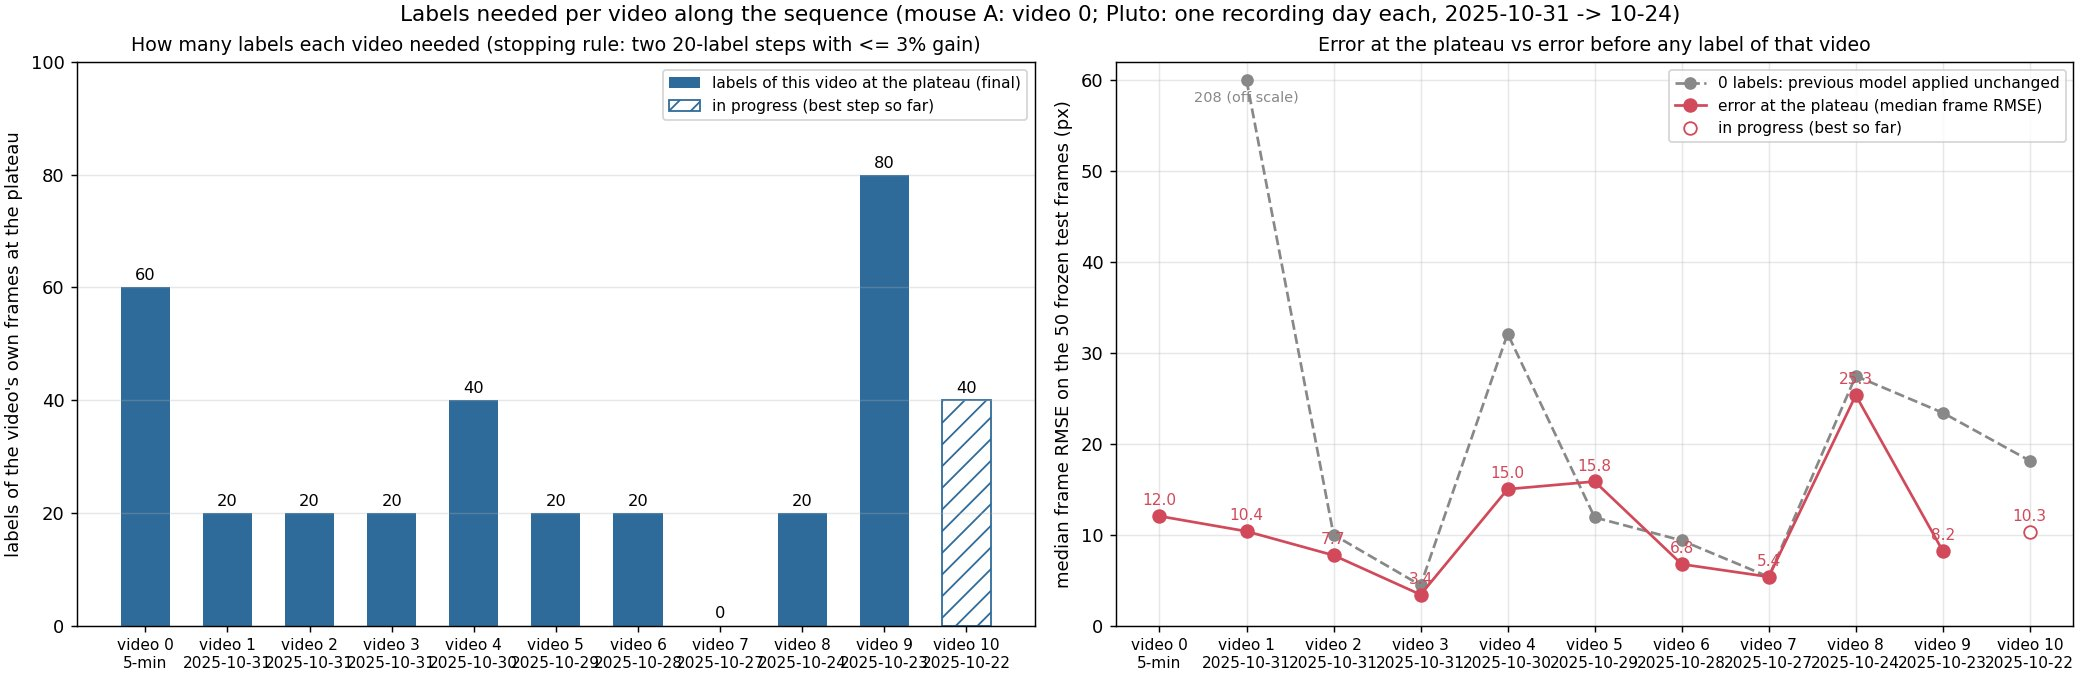
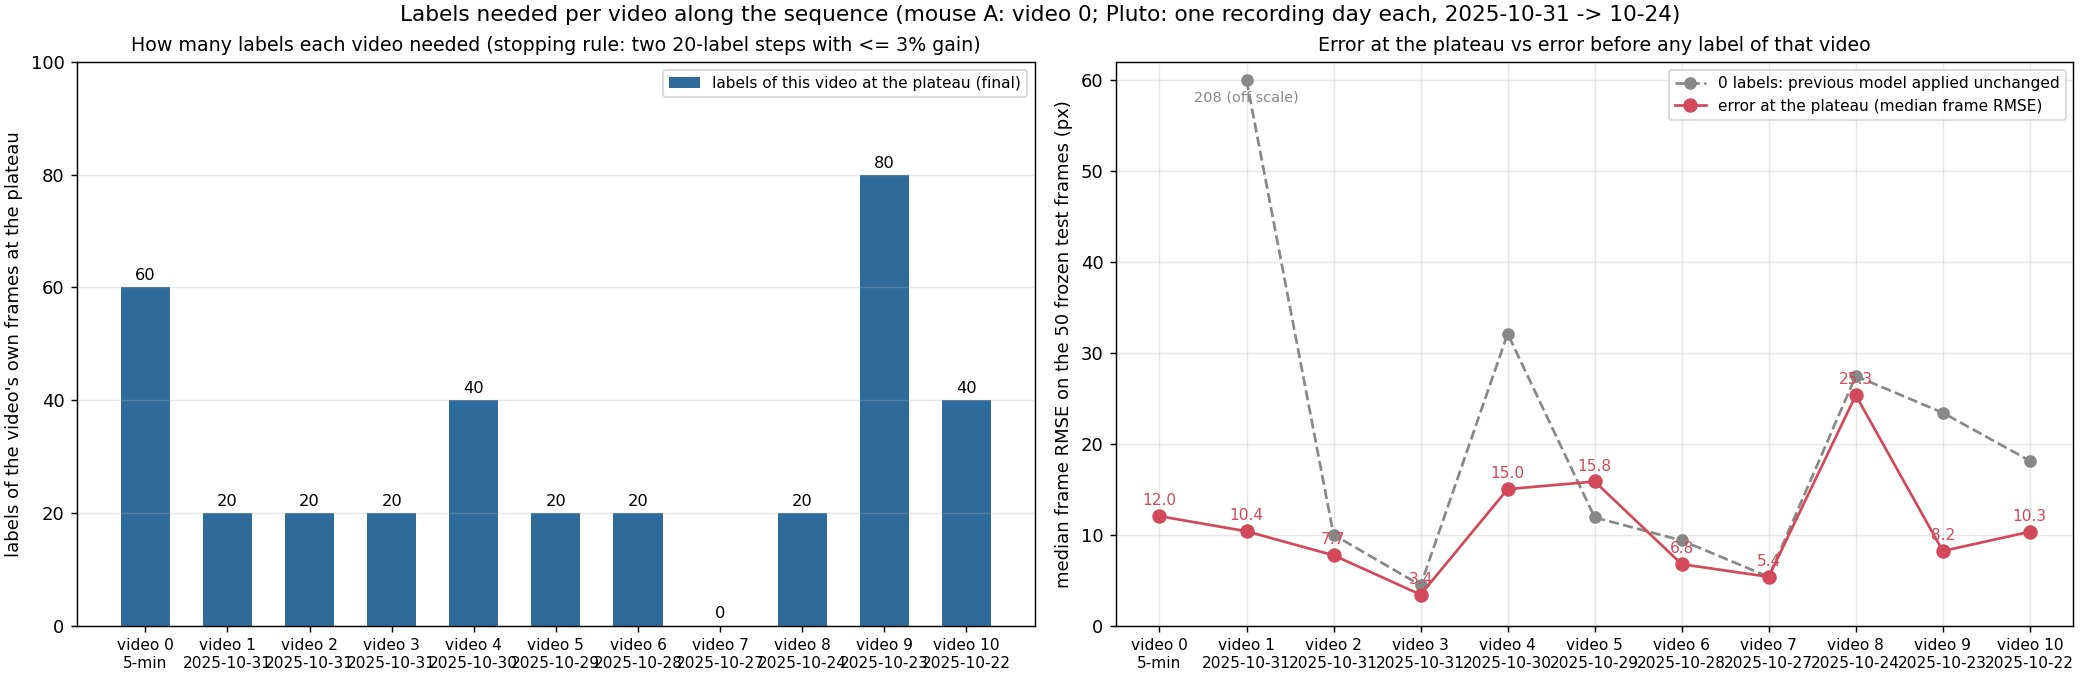
Video 10 finished: plateau at 40 labels, 10.32 px (rule fired at 80; user decision 2026-10-03); 40 labels carried into video 11 (Terra, new mouse), whose test / val / batch01 frames are extracted
Claude-Session: https://claude.ai/code/session_017MK5SWBFFQAu8ejFk1z7fh

diff --git a/report/index.html b/report/index.html
@@ -63,7 +63,7 @@ code{font-family:var(--mono);font-size:.9em}
 
 <header>
   <h1><span lang="zh">小鼠眼睛关键点追踪：做了什么，结果是什么</span><span lang="en">Mouse eye keypoint tracking: what was done and what came out</span></h1>
-  <p class="muted small">Zhiheng Li (University of Minnesota), Kaiwen Sheng (Stanford) · <span lang="zh">页面生成时间</span><span lang="en">page built</span> 2026-10-03 09:37 · <a href="https://github.com/ZhihengLi0/mouse-behavior-tracking">GitHub: ZhihengLi0/mouse-behavior-tracking</a></p>
+  <p class="muted small">Zhiheng Li (University of Minnesota), Kaiwen Sheng (Stanford) · <span lang="zh">页面生成时间</span><span lang="en">page built</span> 2026-10-03 09:49 · <a href="https://github.com/ZhihengLi0/mouse-behavior-tracking">GitHub: ZhihengLi0/mouse-behavior-tracking</a></p>
 
   <div class="text" lang="zh">
     <p><b>任务。</b>用 DeepLabCut 在小鼠眼睛视频的每一帧上找 8 个点：瞳孔上、下、左、右，上眼睑、下眼睑，鼻侧眼角、颞侧眼角。由这 8 个点得到瞳孔大小、眼睛睁开程度和眨眼，之后与脑记录对齐。</p>
@@ -75,10 +75,10 @@ code{font-family:var(--mono);font-size:.9em}
       <li><b>用哪个模型？</b>用 ResNet-50。</li>
       <li><b>同一个视频标多少帧够？</b>约 80 帧就饱和，加到 300 帧误差不变；用哪种算法挑帧也没有差别。</li>
       <li><b>换一只新老鼠怎么办？</b>旧模型完全不能用（误差约 200 px）；标 20 帧就回到约 10 px。</li>
-      <li><b>同一只老鼠之后的每个视频要标多少帧？</b>标 0–40 帧就到平台（已完成的 8 个里有 1 个需要 80 帧）。</li>
+      <li><b>同一只老鼠之后的每个视频要标多少帧？</b>标 0–40 帧就到平台（已完成的 9 个里有 1 个需要 80 帧）。</li>
       <li><b>加入新视频会不会让旧视频变差？</b>不会。</li>
     </ol>
-    <p><b>进度。</b>已完成 10 个视频（视频 0–9）；视频 10 进行中，按 0 / 20 / 40 / … 帧的误差为 18.13 / 11.83 / 10.32 / 10.49 / 10.76 px。</p>
+    <p><b>进度。</b>已完成 11 个视频（视频 0–10）。</p>
   </div>
   <div class="text" lang="en">
     <p><b>Task.</b> DeepLabCut finds 8 points on every frame of a mouse-eye video: pupil top, bottom, left, right; upper and lower eyelid; nasal and temporal eye corner. From these we get pupil size, eye opening and blinks, to be aligned with brain recordings later.</p>
@@ -90,10 +90,10 @@ code{font-family:var(--mono);font-size:.9em}
       <li><b>Which model?</b> ResNet-50.</li>
       <li><b>How many labels are enough within one video?</b> About 80 saturate it; 300 give the same error, and the algorithm used to pick the frames makes no difference.</li>
       <li><b>What about a new mouse?</b> The old model is useless (error about 200 px); 20 labels bring it back to about 10 px.</li>
-      <li><b>How many labels does each later video of the same mouse need?</b> 0–40 reach the plateau (1 of the 8 finished ones needed 80).</li>
+      <li><b>How many labels does each later video of the same mouse need?</b> 0–40 reach the plateau (1 of the 9 finished ones needed 80).</li>
       <li><b>Do new videos make old ones worse?</b> No.</li>
     </ol>
-    <p><b>Status.</b> 10 videos finished (videos 0–9); video 10 in progress, error at 0 / 20 / 40 / … labels: 18.13 / 11.83 / 10.32 / 10.49 / 10.76 px.</p>
+    <p><b>Status.</b> 11 videos finished (videos 0–10).</p>
   </div>
 
   <div class="text" lang="zh">
@@ -319,7 +319,7 @@ code{font-family:var(--mono);font-size:.9em}
 <tr><td>7</td><td>Pluto<br>2025-10-27</td><td>400</td><td>5.36 / 5.86 / 5.84</td><td><span lang="zh"><b>0 帧，5.36 px</b></span><span lang="en"><b>0 labels, 5.36 px</b></span></td><td>40</td><td>0</td></tr>
 <tr><td>8</td><td>Pluto<br>2025-10-24</td><td>400</td><td>27.46 / 25.34 / 30.03 / 33.77</td><td><span lang="zh"><b>20 帧，25.34 px</b></span><span lang="en"><b>20 labels, 25.34 px</b></span></td><td>60</td><td>20</td></tr>
 <tr><td>9</td><td>Pluto<br>2025-10-23</td><td>420</td><td>23.41 / 10.39 / 8.55 / 8.67 / 8.20 / 9.39 / 8.63</td><td><span lang="zh"><b>80 帧，8.20 px</b></span><span lang="en"><b>80 labels, 8.20 px</b></span></td><td>120</td><td>80</td></tr>
-<tr><td>10</td><td>Pluto<br>2025-10-22</td><td>500</td><td>18.13 / 11.83 / 10.32 / 10.49 / 10.76</td><td><span lang="zh">进行中（目前最好：40 帧，10.32 px）</span><span lang="en">in progress (best so far: 40 labels, 10.32 px)</span></td><td>80</td><td>–</td></tr>
+<tr><td>10</td><td>Pluto<br>2025-10-22</td><td>500</td><td>18.13 / 11.83 / 10.32 / 10.49 / 10.76</td><td><span lang="zh"><b>40 帧，10.32 px</b></span><span lang="en"><b>40 labels, 10.32 px</b></span></td><td>80</td><td>40</td></tr>
       </tbody>
     </table>
   </div>

diff --git a/report/template.html b/report/template.html
@@ -75,7 +75,7 @@ code{font-family:var(--mono);font-size:.9em}
       <li><b>用哪个模型？</b>用 ResNet-50。</li>
       <li><b>同一个视频标多少帧够？</b>约 80 帧就饱和，加到 300 帧误差不变；用哪种算法挑帧也没有差别。</li>
       <li><b>换一只新老鼠怎么办？</b>旧模型完全不能用（误差约 200 px）；标 20 帧就回到约 10 px。</li>
-      <li><b>同一只老鼠之后的每个视频要标多少帧？</b>标 0–40 帧就到平台（已完成的 8 个里有 1 个需要 80 帧）。</li>
+      <li><b>同一只老鼠之后的每个视频要标多少帧？</b>标 0–40 帧就到平台（已完成的 9 个里有 1 个需要 80 帧）。</li>
       <li><b>加入新视频会不会让旧视频变差？</b>不会。</li>
     </ol>
     <p><b>进度。</b>{{STATUS_ZH}}</p>
@@ -90,7 +90,7 @@ code{font-family:var(--mono);font-size:.9em}
       <li><b>Which model?</b> ResNet-50.</li>
       <li><b>How many labels are enough within one video?</b> About 80 saturate it; 300 give the same error, and the algorithm used to pick the frames makes no difference.</li>
       <li><b>What about a new mouse?</b> The old model is useless (error about 200 px); 20 labels bring it back to about 10 px.</li>
-      <li><b>How many labels does each later video of the same mouse need?</b> 0–40 reach the plateau (1 of the 8 finished ones needed 80).</li>
+      <li><b>How many labels does each later video of the same mouse need?</b> 0–40 reach the plateau (1 of the 9 finished ones needed 80).</li>
       <li><b>Do new videos make old ones worse?</b> No.</li>
     </ol>
     <p><b>Status.</b> {{STATUS_EN}}</p>

diff --git a/README.md b/README.md
@@ -8,7 +8,7 @@ how many human labels are needed, and how few frames must a person correct, befo
 Zhiheng Li (University of Minnesota), with Kaiwen Sheng (Stanford). Raw videos, frames, labels, model weights and
 per-frame predictions stay local; git carries code, documentation and audited aggregate results.
 
-## Status (last updated 2026-10-03 00:40 CDT)
+## Status (last updated 2026-10-03 10:05 CDT)
 
 | what | state |
 |---|---|
@@ -23,8 +23,9 @@ per-frame predictions stay local; git carries code, documentation and audited ag
 | Finished | **video 8** (Pluto, 2025-10-24, v2 line): test set relabeled under v2 and frozen; 0 labels (video-6 model 711) = 27.46 px, 20 labels = 25.34 px, 40 labels = 30.03 px (p90 ~50, 12-14% of frames > 50 px - a hard day, 3 days after video 7); 60 labels = 33.77 px: finished at **20 labels, 25.34 px** (rule fired at 60; 12-16% of frames > 50 px at every step - this day is hard). |
 | Finished | **video 9** (Pluto, 2025-10-23, v2 line): test50 / val20 / batch01 labeled from model-711 pre-labels; 0 labels (model 711) = 23.41 px, 20 labels = 10.39 px, 40 labels = 8.55 px, 60 labels = 8.67 px (p90 14.8; no gain on the median), 80 labels = 8.20 px (p90 14.8; 4.1% better than 8.55), 100 labels = 9.39 px (p90 15.5), 120 labels = 8.63 px (p90 15.8): the plateau rule fired at 120 (two steps without a gain on 8.20), finished at **80 labels, 8.20 px** (user decision 2026-10-01). Cross-video curves now also show the 5 / 10-label subset models (open markers) |
 | Blink / area analysis | per-video time series in `<video>/results/blink_area_analysis/`; across videos (`v2_new_pupil_top_video_scaling/results/blink_area_consistency.png`): 4-point area better on 7 of 8 test sets; lowest pupil confidence < ~0.2 separates all 16 human closed-eye frames (the production 0.6 cut flags ~half of open frames); area correlates with eye opening in every video |
-| In progress | **video 10** (Pluto, 2025-10-22, the last Pluto video of the sequence): test50 / val20 / batch01 pre-labeled with the video-9 80-label model (1014) and corrected by the labeler (test50: 234 of 400 points moved), test set frozen; 0 labels (model 1014) = 18.13 px (p90 32.0, 8% of frames > 50 px), 20 labels = 11.83 px (p90 27.7, 2% > 50 px), 40 labels = 10.32 px (p90 26.1, 92% of keypoints with confidence >= 0.6), 60 labels = 10.49 px (p90 27.2, 8% > 50 px; no gain over 10.32), 80 labels = 10.76 px (p90 188.7, 12% > 50 px; no gain): the plateau rule fired at 80 (two steps without a gain on 10.32); plateau point 40 labels, 10.32 px; awaiting user decision |
-| Next | Terra (mouse C), units 11-18, one recording day each, newest first |
+| Finished | **video 10** (Pluto, 2025-10-22, the last Pluto video of the sequence): test50 / val20 / batch01 pre-labeled with the video-9 80-label model (1014) and corrected by the labeler (test50: 234 of 400 points moved), test set frozen; 0 labels (model 1014) = 18.13 px (p90 32.0, 8% of frames > 50 px), 20 labels = 11.83 px (p90 27.7, 2% > 50 px), 40 labels = 10.32 px (p90 26.1, 92% of keypoints with confidence >= 0.6), 60 labels = 10.49 px (p90 27.2, 8% > 50 px; no gain over 10.32), 80 labels = 10.76 px (p90 188.7, 12% > 50 px; no gain): the plateau rule fired at 80 (two steps without a gain on 10.32), finished at **40 labels, 10.32 px** (user decision 2026-10-03) |
+| In progress | **video 11** (Terra = mouse C, 2025-10-17, the first video of a new mouse): test50 / val20 / batch01 extracted and pre-labeled with the video-10 40-label model (1112); test set being labeled. Training set of every step = 540 carried labels of videos 0-10 + this video's labels; shuffles 1211, 1212, ... |
+| Next | Terra units 12-18, one recording day each, newest first |
 
 ## Main results so far (era 3, `v2_new_pupil_top_video_scaling/`)
 
@@ -42,7 +43,8 @@ Labels needed per video (plateau = two consecutive 20-label steps that improve t
 | 7 | Pluto, 2025-10-27 | 400 | 5.36 / 5.86 / 5.84 px (v2) | 0 labels, 5.36 px (rule fired at 40) |
 | 8 | Pluto, 2025-10-24 | 400 | 27.46 / 25.34 / 30.03 / 33.77 px (v2) | 20 labels, 25.3 px (rule fired at 60) |
 | 9 | Pluto, 2025-10-23 | 420 | 23.41 / 10.39 / 8.55 / 8.67 / 8.20 / 9.39 px, 120 labels: 8.63 px (v2) | 80 labels, 8.2 px (rule fired at 120) |
-| 10 | Pluto, 2025-10-22 | 500 | 18.13 / 11.83 / 10.32 / 10.49 / 10.76 px (v2; rule fired at 80, awaiting user decision) | – |
+| 10 | Pluto, 2025-10-22 | 500 | 18.13 / 11.83 / 10.32 / 10.49 / 10.76 px (v2) | 40 labels, 10.3 px (rule fired at 80) |
+| 11 | Terra (mouse C), 2025-10-17 | 540 | (v2, in progress) | – |
 
 What the numbers say:
 
@@ -113,6 +115,7 @@ comparison between later videos is not affected.
 | 7 | 40 | 0 | 0 |
 | 8 | 60 | 20 | 20 |
 | 9 | 120 | 80 | 80 |
+| 10 | 80 | 40 | 40 |
 
 Every number in a README comes from one script with one formula; if a definition changes, the whole series is
 recomputed rather than mixed.

diff --git a/v2_new_pupil_top_video_scaling/results/README.md b/v2_new_pupil_top_video_scaling/results/README.md
@@ -22,7 +22,8 @@ snapshot with the best validation mAP after the first learning-rate drop (epochs
 | 7 `7_20251027_Pluto_spont1` | mouse B, 19.9 min, 2025-10-27 | 400 (videos 0-3 + 40 of video 4 + 20 of video 5 + 20 of video 6) | convention v2: 5.36 / 5.86 / 5.84 | **0 labels** (rule fired at 40; user decision 2026-09-29) | 5.36 px |
 | 8 `8_20251024_Pluto_spont1` | mouse B, 19.9 min, 2025-10-24 | 400 (videos 0-3 + 40 of video 4 + 20 of video 5 + 20 of video 6) | convention v2: 27.46 / 25.34 / 30.03 / 33.77 | **20 labels** (rule fired at 60; user decision 2026-09-30) | 25.34 px |
 | 9 `9_20251023_Pluto1` | mouse B, 19.9 min, 2025-10-23 | 420 (videos 0-3 + 40 of video 4 + 20 each of videos 5, 6, 8) | convention v2: 23.41 / 10.39 / 8.55 / 8.67 / 8.20 / 9.39 / 8.63 (120 labels) | **80 labels** (rule fired at 120; user decision 2026-10-01) | 8.20 px |
-| 10 `10_20251022_Pluto1` | mouse B, 19.9 min, 2025-10-22 | 500 (videos 0-3 + 40 of video 4 + 20 each of videos 5, 6, 8 + 80 of video 9) | convention v2: 18.13 / 11.83 / 10.32 / 10.49 / 10.76 | rule fired at 80 (steps 3 and 4 did not improve the running best); plateau point 40 labels; awaiting user decision | – |
+| 10 `10_20251022_Pluto1` | mouse B, 19.9 min, 2025-10-22 | 500 (videos 0-3 + 40 of video 4 + 20 each of videos 5, 6, 8 + 80 of video 9) | convention v2: 18.13 / 11.83 / 10.32 / 10.49 / 10.76 | **40 labels** (rule fired at 80; user decision 2026-10-03) | 10.32 px |
+| 11 `11_20251017_Terra_spont_1` | mouse C (Terra), 19.9 min, 2025-10-17 | 540 (videos 0-3 + 40 of video 4 + 20 each of videos 5, 6, 8 + 80 of video 9 + 40 of video 10) | convention v2: test set being labeled | in progress | – |
 
 `labels_to_plateau.png` / `labels_to_plateau.csv` (2026-09-30): the plateau point of every video in the sequence as one figure - labels needed (left) and the error at the plateau vs the 0-label error (right); `scripts/plot_labels_to_plateau.py`. The csv is the table above in machine-readable form and is updated when a video finishes.
 
@@ -58,8 +59,9 @@ comparison between later videos is not affected.
 | 7 | 40 | 0 | 0 |
 | 8 | 60 | 20 | 20 |
 | 9 | 120 | 80 | 80 |
+| 10 | 80 | 40 | 40 |
 
-Sum carried into video 9: 420 labels; into video 10: 500 labels (the "labels of earlier videos" column of the table at the top).
+Sum carried into video 9: 420 labels; into video 10: 500 labels; into video 11: 540 labels (the "labels of earlier videos" column of the table at the top).
 
 ## Cross-video back-test (2026-09-23)
 

diff --git a/CHANGELOG.md b/CHANGELOG.md
@@ -15,6 +15,7 @@ Important changes (a video finished, a protocol or label-convention change, a ne
 
 | tag | date | what it marks |
 |---|---|---|
+| `v0.9.12-video10-plateau` | 2026-10-03 | Video 10 (2025-10-22, v2 line, last Pluto video) finished: plateau at 40 labels, 10.32 px (0 / 20 / 40 / 60 / 80 = 18.13 / 11.83 / 10.32 / 10.49 / 10.76 px; rule fired at 80); 40 labels carried into video 11 (540 in total); fewer-labels study extended to videos 6, 8, 9, 10; summary page (`report/`) rewritten as a plain step-by-step record |
 | `v0.9.11-video9-plateau` | 2026-10-01 | Video 9 (2025-10-23, v2 line) finished: plateau at 80 labels, 8.20 px (0 / 20 / 40 / 60 / 80 / 100 / 120 = 23.41 / 10.39 / 8.55 / 8.67 / 8.20 / 9.39 / 8.63 px; rule fired at 120); 80 labels carried into video 10; summary page (`report/`) extended to era 3 |
 | `v0.9.10-carry-rule` | 2026-10-01 | Rule fixed for which labels of a finished video go into later training sets: only the labels up to the plateau point (in force since video 4; videos 0-3 carry the 320 labels that existed when the next video started); documented in the READMEs with the per-video table |
 | `v0.9.9-terra-into-v2` | 2026-09-30 | v3 folder removed (user decision; its labelling guide v0.2 stays in git history); the 8 Terra videos (mouse C, 2025-10-17 -> 10-08) join v2 as units 11-18, newest first |

diff --git a/v2_new_pupil_top_video_scaling/10_20251022_Pluto1/results/README.md b/v2_new_pupil_top_video_scaling/10_20251022_Pluto1/results/README.md
@@ -15,7 +15,9 @@ batch01: 73 of 160), then the test set was frozen. Training set of every step = 
 | 60 (shuffle 1113) | 10.49 px | 27.2 | 8% | 84% | 5961 of 57158 (10.4%) |
 | 80 (shuffle 1114) | 10.76 px | 188.7 | 12% | 90% | 5214 of 57158 (9.1%) |
 
-The plateau rule fired at 80 labels: steps 3 and 4 (10.49, 10.76 px) did not improve the running best of 10.32 px (40 labels). Plateau point: 40 labels, 10.32 px; awaiting user decision (2026-10-03).
+The plateau rule fired at 80 labels: steps 3 and 4 (10.49, 10.76 px) did not improve the running best of 10.32 px (40 labels). 
+
+**Finished at 40 labels, 10.32 px (user decision 2026-10-03).** Batches 01-02 (40 labels) are carried into later videos; batches 03-04 stay on disk and are not used by later videos. Batch05 was selected (sheet `selection_sheets/selection_100_frames.png`) and not labeled.
 
 **Fewer-labels study (2026-10-02 / 03)**: step 1 retrained with 5 or 10 of batch01's 20 labels (two subsets each, training
 set otherwise as at the time: the 500 carried labels of videos 0-9; shuffles 2101-2104) ->

diff --git a/v2_new_pupil_top_video_scaling/README.md b/v2_new_pupil_top_video_scaling/README.md
@@ -35,7 +35,7 @@ results/                 ACROSS videos: x = number of videos, y = labels needed 
 7_20251027_Pluto_spont1/  video 7 (mouse B, 2025-10-27): frozen test set only (scored by every model)
 8_20251024_Pluto_spont1/  video 8 (mouse B, 2025-10-24): frozen test set only (scored by every model)
 9_20251023_Pluto1/       video 9 (mouse B, 2025-10-23): test set being labeled
-10_20251022_Pluto1/      video 10 (mouse B, 2025-10-22): test set being labeled
+10_20251022_Pluto1/      video 10 (mouse B, 2025-10-22): finished at 40 labels, 10.32 px
 ```
 
 Per video: 50 test frames (final 10%, at least 60 s), 20 validation frames (the 10% before), 2-s guard bands,
